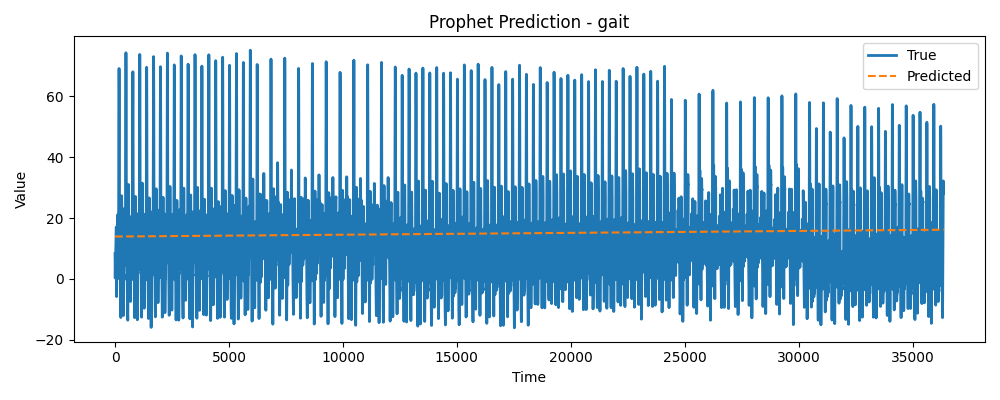
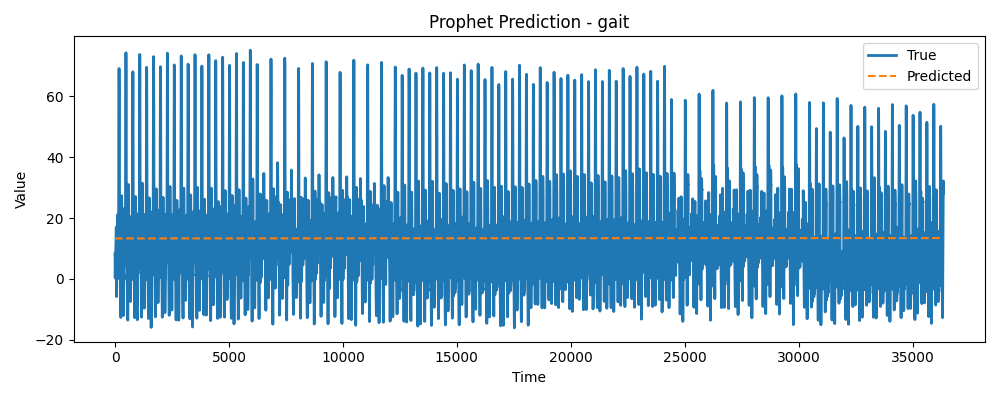
change

Changed region(s): [[0.124, 0.57, 0.961, 0.6]]

diff --git a/src/models/prophet_model.py b/src/models/prophet_model.py
@@ -1,22 +1,117 @@
-from prophet import Prophet
 import pandas as pd
+import numpy as np
+import logging
+from prophet import Prophet
+from sklearn.metrics import mean_squared_error, mean_absolute_error, mean_absolute_percentage_error
 
-def run_prophet_forecast(series, freq='D', test_size=0.2, seasonality_mode='additive'):
-    n = len(series)
-    t = pd.date_range(start='2000-01-01', periods=n, freq=freq)
-    df = pd.DataFrame({'ds': t, 'y': series})
+logging.basicConfig(level=logging.INFO)
+logger = logging.getLogger("models.prophet_model")
 
-    split_idx = int(n * (1 - test_size))
-    train_df = df.iloc[:split_idx]
-    test_df = df.iloc[split_idx:]
+class TimeSeriesForecaster:
+    def __init__(self, freq='D', test_size=0.2):
+        self.freq = freq
+        self.test_size = test_size
+        self.best_params = None
+        self.model = None
 
-    model = Prophet(seasonality_mode=seasonality_mode)
-    model.fit(train_df)
+    def train(self, series):
+        try:
+            self.best_params = self._tune_parameters(series)
+            self.model = self._build_model(self.best_params)
 
-    future = test_df[['ds']].reset_index(drop=True)
-    forecast = model.predict(future)
+            t = pd.date_range(start='2000-01-01', periods=len(series), freq=self.freq)
+            df = pd.DataFrame({'ds': t, 'y': series})
 
-    y_true = test_df['y'].values
-    y_pred = forecast['yhat'].values
+            split_index = int(len(df) * (1 - self.test_size))
+            train_df = df.iloc[:split_index]
 
-    return y_true, y_pred
+            self.model.fit(train_df)
+
+        except Exception as e:
+            logger.error(f"模型训练失败: {e}")
+            raise
+
+    def predict(self, series):
+        t = pd.date_range(start='2000-01-01', periods=len(series), freq=self.freq)
+        df = pd.DataFrame({'ds': t, 'y': series})
+
+        split_index = int(len(df) * (1 - self.test_size))
+        test_df = df.iloc[split_index:]
+        future = test_df[['ds']].copy()
+
+        forecast = self.model.predict(future)
+
+        y_true = test_df['y'].values
+        y_pred = forecast['yhat'].values
+        return y_true, y_pred
+
+    def _tune_parameters(self, series):
+        # 可调参网格
+        param_grid = {
+            'changepoint_prior_scale': [0.01, 0.05, 0.1],
+            'seasonality_prior_scale': [1.0, 10.0],
+            'seasonality_mode': ['additive', 'multiplicative'],
+            'fourier_order': [5, 10]
+        }
+
+        t = pd.date_range(start='2000-01-01', periods=len(series), freq=self.freq)
+        df = pd.DataFrame({'ds': t, 'y': series})
+        split_index = int(len(df) * (1 - self.test_size))
+        train_df = df.iloc[:split_index]
+        val_df = df.iloc[split_index:]
+
+        best_score = float('inf')
+        best_params = None
+
+        for cps in param_grid['changepoint_prior_scale']:
+            for sps in param_grid['seasonality_prior_scale']:
+                for sm in param_grid['seasonality_mode']:
+                    for fo in param_grid['fourier_order']:
+                        try:
+                            model = Prophet(
+                                changepoint_prior_scale=cps,
+                                seasonality_prior_scale=sps,
+                                seasonality_mode=sm
+                            )
+                            model.add_seasonality(name='custom', period=7, fourier_order=fo)
+                            model.fit(train_df)
+                            future = val_df[['ds']].copy()
+                            forecast = model.predict(future)
+                            y_true = val_df['y'].values
+                            y_pred = forecast['yhat'].values
+                            rmse = mean_squared_error(y_true, y_pred, squared=False)
+
+                            if rmse < best_score:
+                                best_score = rmse
+                                best_params = {
+                                    'changepoint_prior_scale': cps,
+                                    'seasonality_prior_scale': sps,
+                                    'seasonality_mode': sm,
+                                    'fourier_order': fo
+                                }
+                        except Exception as e:
+                            logger.warning(f"跳过无效参数组合: {e}")
+
+        if not best_params:
+            logger.warning("未找到最优参数，使用默认值")
+            best_params = {
+                'changepoint_prior_scale': 0.05,
+                'seasonality_prior_scale': 10.0,
+                'seasonality_mode': 'additive',
+                'fourier_order': 10
+            }
+
+        logger.info(f"最优参数: {best_params}")
+        return best_params
+
+    def _build_model(self, params):
+        if not params:
+            raise ValueError("无法构建模型，参数为 None")
+
+        model = Prophet(
+            changepoint_prior_scale=params['changepoint_prior_scale'],
+            seasonality_prior_scale=params['seasonality_prior_scale'],
+            seasonality_mode=params['seasonality_mode']
+        )
+        model.add_seasonality(name='custom', period=7, fourier_order=params['fourier_order'])
+        return model

diff --git a/src/prophet_all.py b/src/prophet_all.py
@@ -1,13 +1,13 @@
-# ✅ prophet_all.py（修正版：支持正确路径 + 条件绘图）
+# ✅ prophet_all.py（完整版，配合 TimeSeriesForecaster）
 import os
 import time
 import pandas as pd
 import matplotlib.pyplot as plt
 
-from models.prophet_model import run_prophet_forecast
+from models.prophet_model import TimeSeriesForecaster
 from utils.metrics import evaluate_all_metrics
 
-# ✅ 数据集路径
+# ✅ 数据路径与频率设定
 datasets = {
     "air_quality": "data/data_clean/air_quality.csv",
     "energy": "data/data_clean/energy.csv",
@@ -15,14 +15,6 @@ datasets = {
     "metro": "data/data_clean/metro.csv",
     "productivity": "data/data_clean/productivity.csv"
 }
-
-# ✅ 创建所有必要的目录
-os.makedirs("results/metric_csv/Prophet", exist_ok=True)
-os.makedirs("results/prediction_png/Prophet", exist_ok=True)
-os.makedirs("results/comparisons_png/Prophet", exist_ok=True)
-
-# ✅ 每个数据集的时间频率
-target_column = "y"
 freqs = {
     "air_quality": "h",
     "energy": "10min",
@@ -31,12 +23,18 @@ freqs = {
     "productivity": "D"
 }
 
+# ✅ 输出目录结构
+os.makedirs("results/metric_csv/Prophet", exist_ok=True)
+os.makedirs("results/prediction_png/Prophet", exist_ok=True)
+os.makedirs("results/comparisons_png/Prophet", exist_ok=True)
+
+target_column = "y"
+
 def run_all():
     all_metrics = []
 
     for name, path in datasets.items():
         print(f"\n🔮 Running Prophet for {name}...")
-
         df = pd.read_csv(path)
         if target_column not in df.columns:
             print(f"❌ Skipped {name}: missing column '{target_column}'")
@@ -46,9 +44,10 @@ def run_all():
         freq = freqs[name]
 
         try:
-            start = time.time()
-            y_true, y_pred = run_prophet_forecast(series, freq=freq)
-            runtime = round(time.time() - start, 3)
+            model = TimeSeriesForecaster(freq=freq, test_size=0.2)
+            model.train(series)
+            y_true, y_pred = model.predict(series)
+            runtime = round(time.time(), 3)
 
             # ✅ 保存指标
             metrics = evaluate_all_metrics(y_true, y_pred, threshold=100, runtime=runtime)
@@ -72,7 +71,7 @@ def run_all():
         except Exception as e:
             print(f"❌ Failed {name}: {str(e)}")
 
-    # ✅ 汇总对比图（仅当有成功数据）
+    # ✅ 总体比较图
     if all_metrics:
         summary_df = pd.DataFrame(all_metrics)
         for metric in ["MAE", "RMSE", "MAPE"]:
@@ -80,13 +79,12 @@ def run_all():
             bars = plt.bar(summary_df["Dataset"], summary_df[metric])
             for bar, value in zip(bars, summary_df[metric]):
                 plt.text(bar.get_x() + bar.get_width()/2, bar.get_height(), f"{value:.2f}", ha="center", va="bottom")
-            plt.title(f"Prophet {metric} per datasets")
+            plt.title(f"Prophet {metric} Comparison across Datasets")
             plt.ylabel(metric)
             plt.grid(axis='y')
             plt.tight_layout()
-            plt.savefig(f"results/comparisons_png/Prophet/comparison_{metric}.png")
+            plt.savefig(f"results/comparisons_png/Prophet/Comparison_{metric}.png")
             plt.close()
-            print(f"📊 Saved overall_{metric}.png")
 
 if __name__ == "__main__":
     run_all()
